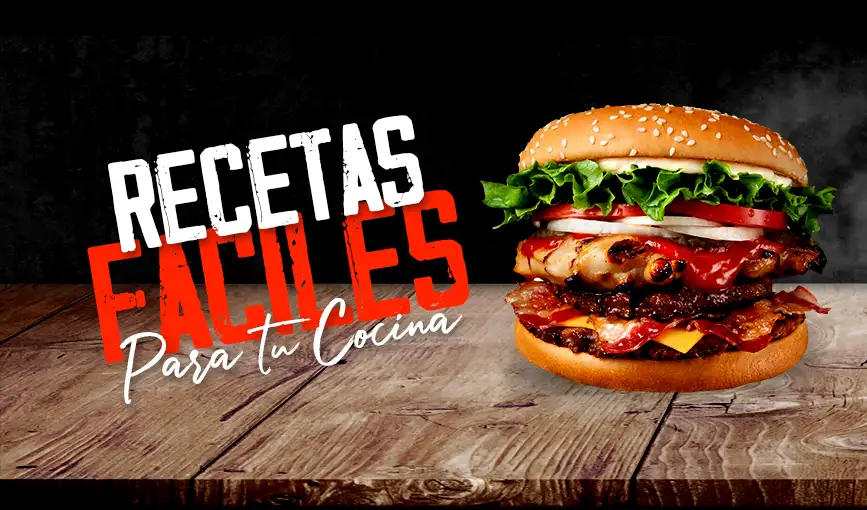
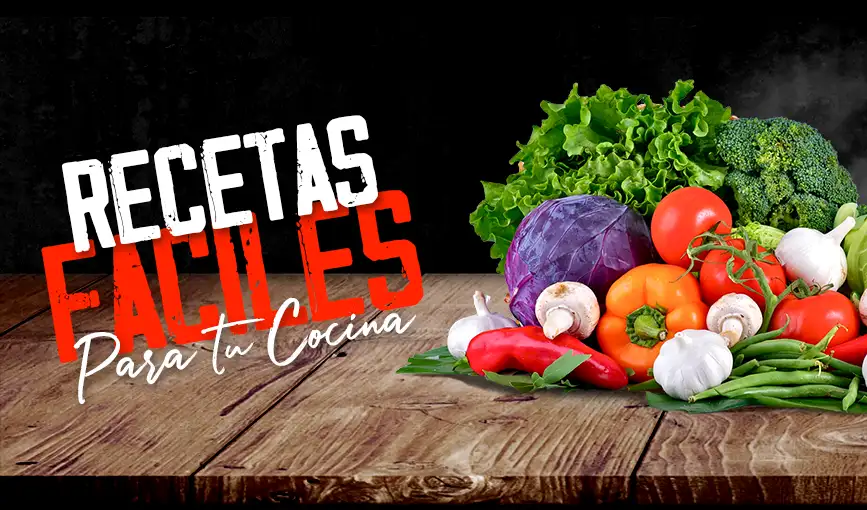
.

diff --git a/hamburguesa.html b/hamburguesa.html
@@ -1,0 +1,76 @@
+<!DOCTYPE html>
+<html lang="en">
+
+<head>
+  <meta charset="UTF-8">
+  <meta http-equiv="X-UA-Compatible" content="IE=edge">
+  <meta name="viewport" content="width=device-width, initial-scale=1.0">
+  <link rel="stylesheet" href="index.css">
+  <title>Pizza Italiana - Recetas fáciles</title>
+</head>
+
+<body>
+  <main class="container">
+
+    <head>
+      <img class="imagen__mobile" src="/images/imagen-mobile-burger.webp" alt="Imagen Encabezado">
+      <img class="imagen__desktop" src="images/imagen-desktop-burger.webp" alt="Imagen Encabezado">
+      <div class="menu">
+        <ul>
+          <li id="home"><a href="index.html"><i class="fa-solid fa-bell-concierge"></i>ver Todas las recetas</a></li>
+        </ul>
+      </div>
+    </head>
+    <section class="presentacion" id="presentacion">
+      <h1>Hamburguesa clásica americana</h1>
+      <p>Aquí les voy a enseñar cómo aderezar la carne para hacer <span class="sub">hamburguesa americana</span> auténtica. Aquí tienes todas las claves para que te conviertas en especialista indiscutible de las hamburguesas.</p>
+    </section>
+    <section class="receta">
+      <h2><i class="fa-solid fa-bowl-food"></i> Ingredientes necesarios</h2>
+      <div class="receta__ingredientes">
+        <ul>
+          <li><i class="fa-solid fa-bowl-rice"></i> <b>350</b> gramos de <b>carne de ternera</b>.</li>
+          <li><i class="fa-solid fa-bowl-rice"></i> <b>1</b> yema de <b>huevo</b>.</li>
+          <li><i class="fa-solid fa-bowl-rice"></i> <b>1</b> cucharadita de <b>mostaza de Dijon</b>.</li>
+          <li><i class="fa-solid fa-bowl-rice"></i> <b>1</b> cucharadas de <b>salsa Perrins</b>.</li>
+          <li><b>Para el montado:</b>.</li>
+          <li><i class="fa-solid fa-bowl-rice"></i> Hojas de lechuga.</li>
+          <li><i class="fa-solid fa-bowl-rice"></i> Rodajas de tomate.</li>
+          <li><i class="fa-solid fa-bowl-rice"></i> Anillos de cebolla.</li>
+          <li><i class="fa-solid fa-bowl-rice"></i> Rodajas de pepino agridulce.</li>
+          <li><i class="fa-solid fa-bowl-rice"></i> 2 Fetas de cheddar.</li>
+          <li><i class="fa-solid fa-bowl-rice"></i> 2 Fetas de panceta.</li>
+          <li><i class="fa-solid fa-bowl-rice"></i> Ketchup.</li>
+          <li><i class="fa-solid fa-bowl-rice"></i> Mayonesa.</li>
+          <li><i class="fa-solid fa-bowl-rice"></i> Mostaza americana.</li>
+        </ul>
+      </div>
+    </section>
+    <section class="preparacion">
+      <div class="preparacion__detalle">
+        <h2><i class="fa-solid fa-pizza-slice"></i> Preparación</h2>
+        <ol>
+          <li>Pon la carne picada en un plato hondo.</li>
+          <li>Separa la yema de la clara y añádela a la carne.</li>
+          <li>Añade 1 cucharadita de mostaza de Dijon, 1 cucharada de salsa inglesa y un poco de pimienta negra molida y sal a gusto.</li>
+          <li>Con ayuda de una cuchara remueve hasta que se integren todos los ingredientes.</li>
+          <li>Divide la carne en 2 ó 3 partes y forma las hamburguesas. Para que la carne no se me pegue a las manos las mojas en agua.</li>
+          <li>Primero haz una pelota bien apretada y luego aplástala en un circulo de unos 12 cm de diámetro. Fíjate que tenga el mismo grosor por toda su circunferencia.</li>
+          <li>Corta los panes en dos y sella el corte del pan en una plancha caliente. De esa forma el pan no se va mojar tanto con salsas y jugos de la carne.</li>
+          <li>Unta la base de las hamburguesas con mayonesa.</li>
+          <li>Pon en la base unas hojas de lechuga, rodajas de tomate y anillos de cebolla.</li>
+          <li>Unta las hamburguesas con aceite por los dos lados, limpia los restos de miga de pan de la plancha y cocina las hamburguesas a fuego alto durantes 3 minutos por cada lado. 1 minutos antes de retirar, coloca el cheddar para derretilo ligeramente.</li>
+          <li>Pon las hamburguesas sobre los panes y adereza con ketchup, coloca las rodajas de pepinillo agridulce, tapa y... <b>A disfrutar!!!</b></li>
+        </ol>
+        <a href="index.html"><button>otras recetas...</button></a>
+      </div>
+    </section>
+    <footer>
+      <div>2023 - by <a href="https://github.com/sgvcode">SGVcode {cac23053}</a></div>
+    </footer>
+  </main>
+
+  <script src="https://kit.fontawesome.com/ad22120107.js" crossorigin="anonymous"></script>
+</body>
+
+</html>

diff --git a/index.css b/index.css
@@ -2,11 +2,11 @@
 @import url('https://fonts.googleapis.com/css2?family=Birthstone+Bounce:wght@400;500&family=Montserrat:wght@200;400;700&family=Qwitcher+Grypen:wght@700&display=swap');
 
 :root {
-  --rojo: tomato;
+  --rojo: #ff6347;
   --verde: rgba(102, 211, 107, 0.959);
   --white: white;
   --white-transp: rgb(240, 231, 215);
-  --marron:#000000d3;
+  --marron:#000000dc;
 }
 
 * {
@@ -16,6 +16,7 @@
   scroll-behavior: smooth;
 }
 
+/* Estilos GENERALES */
 html {
   font-size: 62.5%;
 }
@@ -54,8 +55,10 @@ h1, h2 {
 }
 
 h1 {
-  font-size: 4rem;
-  color: var(--verde);
+  font-size: 4.5rem;
+  color: var(--white-transp);
+  line-height: 3.5rem;
+  margin: 6rem 0 4rem;
 }
 
 span {
@@ -67,6 +70,14 @@ span.color--blanco {
 }
 span.color--rojo {
   color: var(--rojo);
+}
+
+span.color--verde {
+  color: var(--verde);
+}
+
+span {
+  color: var(--azul);
 }
 
 h2 {
@@ -114,6 +125,100 @@ i {
   display: flex;
   flex-direction: column;
   align-items: center;
+}
+
+.sub{
+  text-transform: uppercase;
+  color: white;
+}
+
+/* Sección INICIO */
+.texto__inicio {
+  margin-top: 4rem;
+}
+
+.titulo {
+  color: var(--white)
+}
+
+.grid__recetas {
+  display: grid;
+  grid-auto-flow: row;
+  grid-template-columns: repeat(3, 1fr);
+  gap: 10px;
+  width: 90%;
+  max-width: 960px;
+}
+
+.img__grid {
+  width: 100%;
+  transition: all .5s ease-in-out;
+  border-radius: 2rem;
+  border: 1px dashed var(--white-transp);
+}
+
+.img__grid:hover {
+  filter: brightness(120%);
+}
+
+.img__recetas {
+  margin-bottom: 10px;
+  transition: all .3s ease-in-out;
+}
+
+.img__recetas:hover {
+  transform: scale(105%);
+}
+
+.texto__inicio p {
+  padding-top: 1rem;
+  font-size: 2rem;
+  line-height: 3.5rem;
+}
+
+/* Sección RECETAS */
+.menu {
+  padding: .5rem 3rem;
+  width: 100%;
+  border-bottom: 1px dashed var(--rojo);
+  border-top: 1px dashed var(--rojo);
+  background-color: var(--marron);
+}
+
+.menu ul {
+  width: 100%;
+  display: flex;
+  align-items: center;
+  justify-content: center;
+}
+
+.menu li{
+  text-transform: uppercase;
+  margin: 0 2rem;
+  color: var(--white-transp);
+  font-size: 1.6rem;
+}
+
+.menu li a {
+  text-align: center;
+  color: var(--white-transp);
+  text-transform: uppercase;
+}
+
+.menu li a:hover {
+  color: var(--verde);
+}
+
+.menu li a:active {
+  color: var(--rojo);
+}
+
+.menu i {
+  color: var(--white-transp);
+  font-size: 2rem;
+}
+.menu i:hover{
+  color: var(--verde)
 }
 
 .receta__ingredientes {
@@ -190,7 +295,12 @@ footer {
 
 footer a {
   font-size: 1.2rem;
-  
+}
+
+form {
+  display: block;
+  margin: 0 auto;
+  width: 90%;
 }
 
 @media (min-width: 768px){
@@ -234,90 +344,4 @@ footer a {
   .preparacion li {
     font-size: 1.8rem;
   }
-}
-
-.sub{
-  text-decoration:underline wavy green;
-  text-transform: uppercase;
-}
-
-.menu {
-  padding: .5rem 3rem;
-  width: 100%;
-  border-bottom: 3px dashed var(--rojo);
-  background-color: var(--marron);
-}
-
-.menu ul {
-  width: 100%;
-  display: flex;
-  align-items: center;
-  justify-content: center;
-}
-
-.menu li{
-  text-transform: uppercase;
-  margin: 0 2rem;
-  color: var(--white-transp);
-  font-size: 2rem;
-}
-
-.menu i {
-  color: var(--white-transp);
-  font-size: 2rem;
-}
-.menu i:hover{
-  color: var(--verde)
-}
-
-.menu li a {
-  text-align: center;
-  font-weight: bold;
-  color: var(--white-transp);
-  text-transform: uppercase;
-}
-
-.menu li a:hover {
-  color: var(--verde);
-}
-
-.menu li a:active {
-  color: var(--rojo);
-}
-
-.texto__inicio {
-  margin-top: 4rem;
-}
-
-.titulo {
-  color: var(--white)
-}
-
-.grid__recetas {
-  display: grid;
-  grid-auto-flow: row;
-  grid-template-columns: repeat(3, 1fr);
-  gap: 10px;
-  width: 90%;
-  max-width: 960px;
-}
-
-.img__grid {
-  width: 100%;
-  transition: all .5s ease-in-out;
-  border-radius: 2rem;
-  border: 1px dashed var(--white-transp);
-}
-
-.img__grid:hover {
-  filter: brightness(120%);
-}
-
-.img__recetas {
-  margin-bottom: 10px;
-  transition: all .3s ease-in-out;
-}
-
-.img__recetas:hover {
-  transform: scale(105%);
 }

diff --git a/pizza.html b/pizza.html
@@ -13,8 +13,8 @@
   <main class="container">
 
     <head>
-      <img class="imagen__mobile" src="/images/imagen-mobile.webp" alt="Imagen Encabezado">
-      <img class="imagen__desktop" src="images/imagen-desktop.webp" alt="Imagen Encabezado">
+      <img class="imagen__mobile" src="/images/imagen-mobile-pizza.webp" alt="Imagen Encabezado">
+      <img class="imagen__desktop" src="images/imagen-desktop-pizza.webp" alt="Imagen Encabezado">
       <div class="menu">
         <ul>
           <li id="home"><a href="index.html"><i class="fa-solid fa-bell-concierge"></i>Todas las recetas</a></li>
@@ -22,7 +22,7 @@
       </div>
     </head>
     <section class="presentacion" id="presentacion">
-      <h1>Pizza <span class="color--blanco">clásica</span><span class="color--rojo"> italiana</span></h1>
+      <h1><span class="color--rojo">Pizza </span><span class="color--blanco">clásica</span> <span class="color--verde"> italiana</span></h1>
       <p>La <span class="sub">pizza</span> es un pan plano horneado elaborado con harina de trigo, sal, agua y levadura y cubierto con salsa de
         tomate. Original de la cocina napolitana (Italia), se ha hecho muy popular en todo el mundo y presenta muy
         distintas variantes.</p>
@@ -55,7 +55,7 @@
       </div>
     </section>
     <footer>
-      <div>2023 - by <a href="#">SGVcode {cac23053}</a></div>
+      <div>2023 - by <a href="https://github.com/sgvcode">SGVcode {cac23053}</a></div>
     </footer>
   </main>
 

diff --git a/index.html b/index.html
@@ -27,7 +27,7 @@
         <a href="pizza.html"><img class="img__grid" src="images/item-pizza.webp">Pizza italiana</a>
       </span>
       <span class="img__recetas">
-        <a href="#"><img id="imgi" class="img__grid" src="images/item-hamburguesa.webp">Hamburguesa americana</a>
+        <a href="hamburguesa.html"><img id="imgi" class="img__grid" src="images/item-hamburguesa.webp">Hamburguesa americana</a>
       </span>
       <span class="img__recetas">
         <a href="#"><img class="img__grid" src="images/item-empanadas.webp">Empanadas criollas</a>
